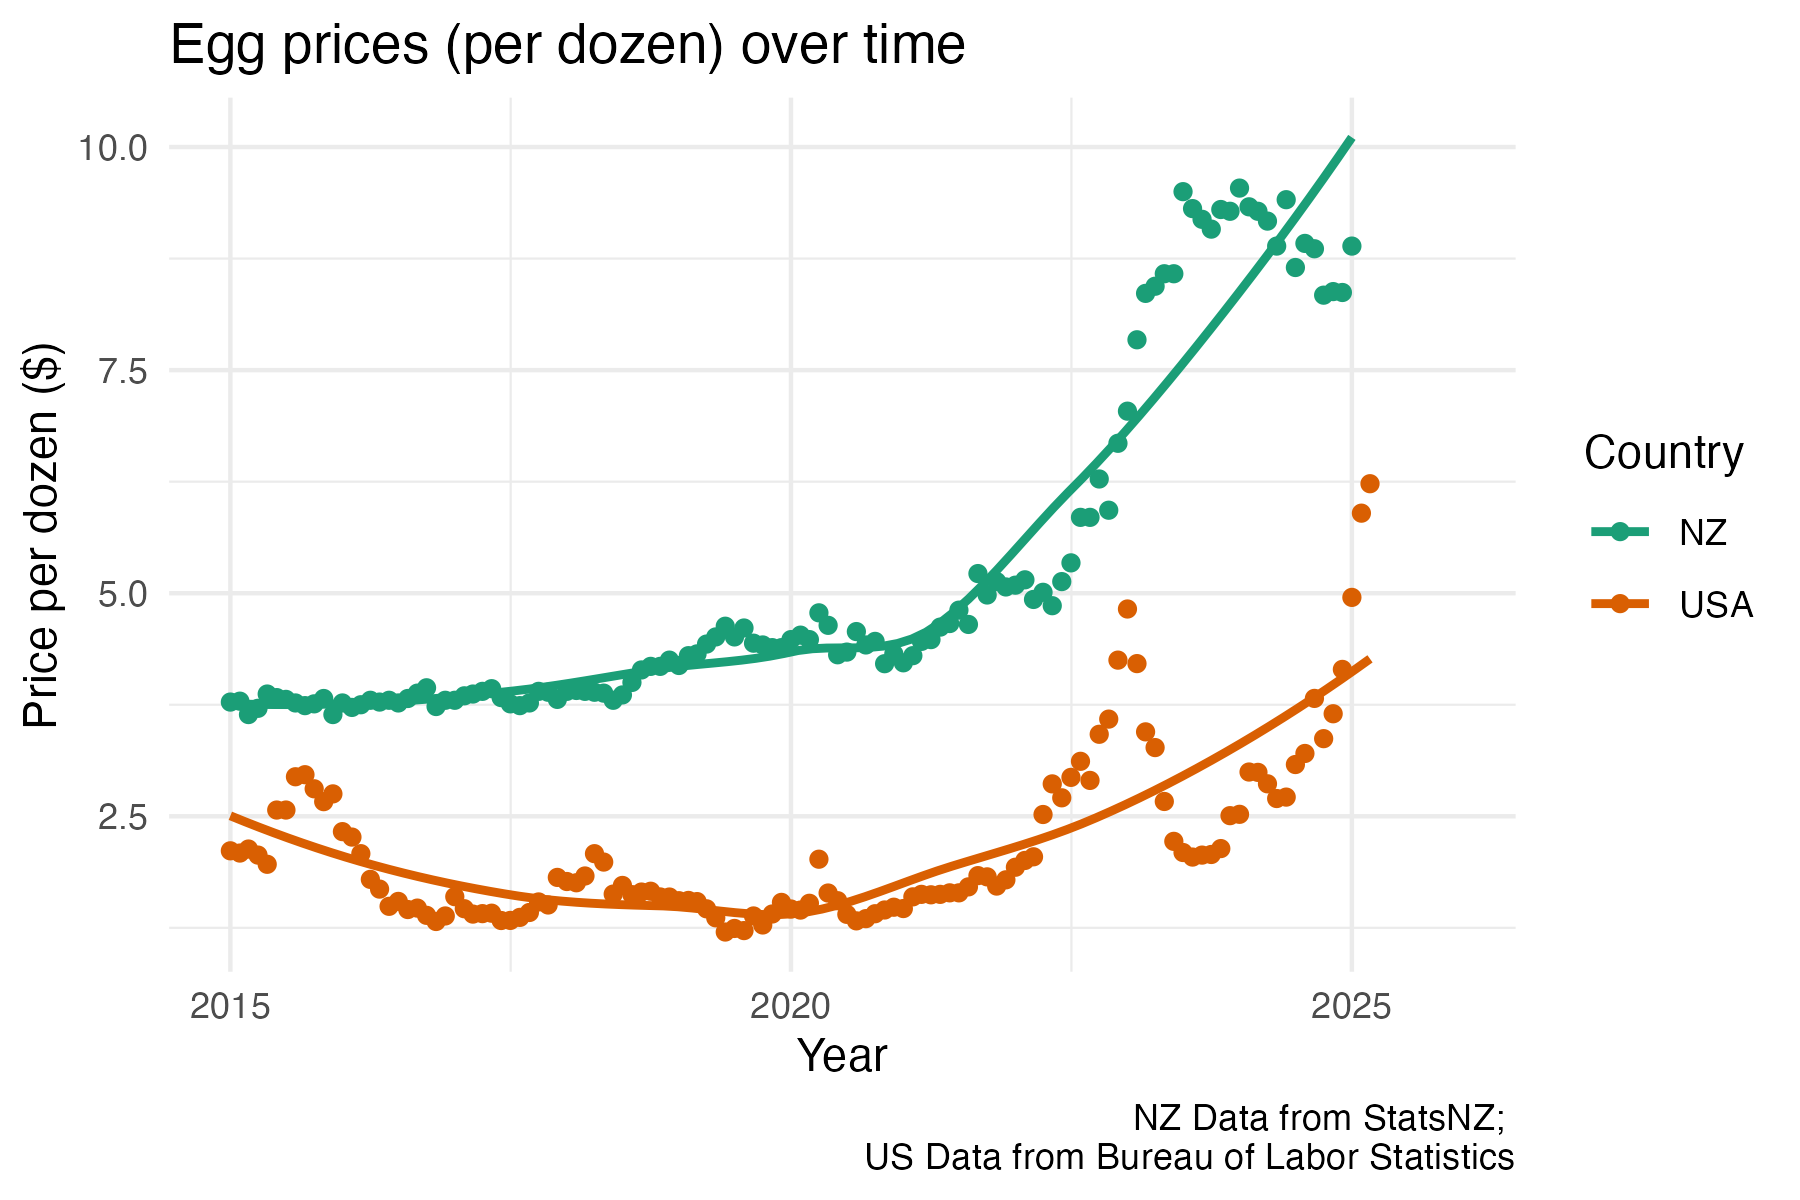
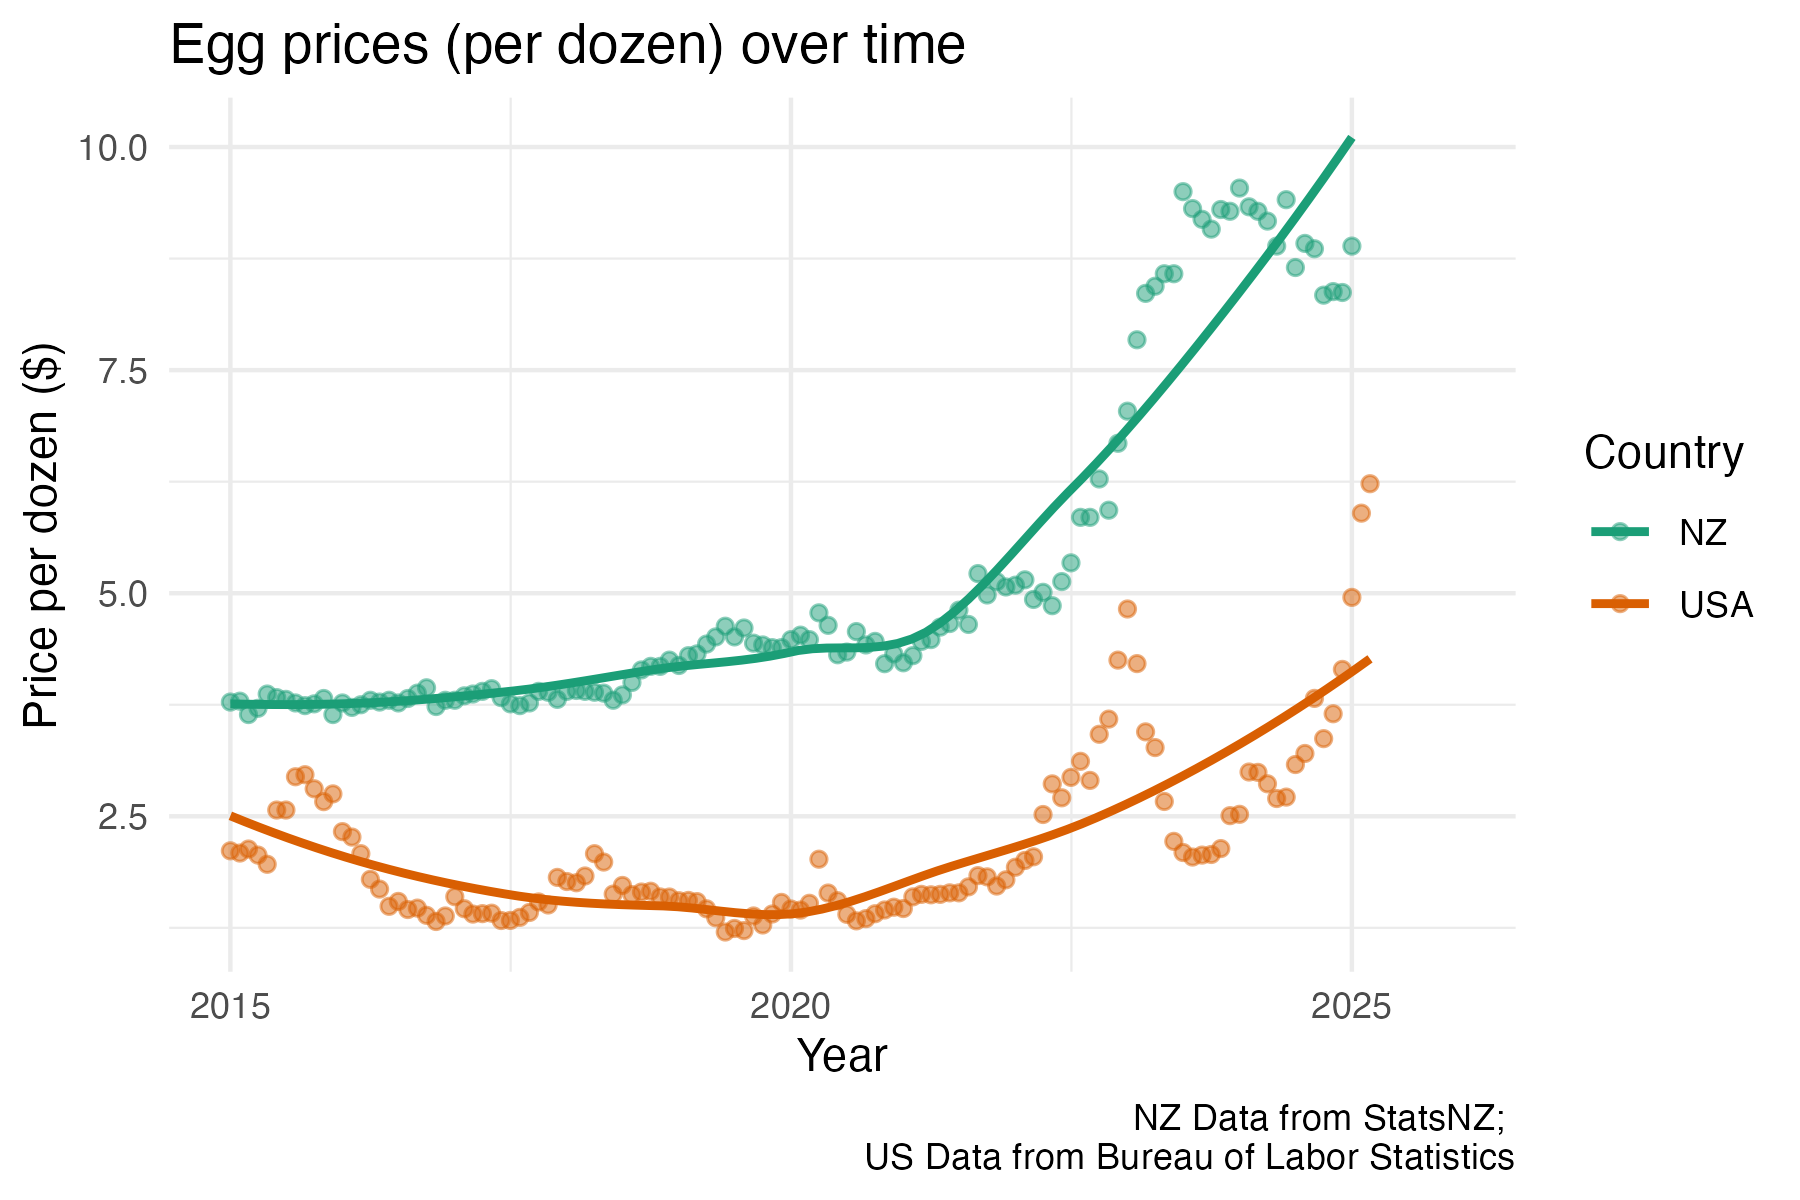
update egg plot

diff --git a/_site/charts/2025-03-31_challenge/index.html b/_site/charts/2025-03-31_challenge/index.html
@@ -658,7 +658,7 @@ gtag('config', 'G-Y7WV5KV7Z0', { 'anonymize_ip': true});
 <div class="cell">
 <div class="sourceCode cell-code" id="cb14"><pre class="sourceCode r code-with-copy"><code class="sourceCode r"><span id="cb14-1"><a href="#cb14-1" aria-hidden="true" tabindex="-1"></a>eggs <span class="sc">%&gt;%</span></span>
 <span id="cb14-2"><a href="#cb14-2" aria-hidden="true" tabindex="-1"></a>  <span class="fu">ggplot</span>(<span class="fu">aes</span>(<span class="at">x =</span> date, <span class="at">y =</span> price, <span class="at">colour =</span> currency)) <span class="sc">+</span></span>
-<span id="cb14-3"><a href="#cb14-3" aria-hidden="true" tabindex="-1"></a>  <span class="fu">geom_point</span>() <span class="sc">+</span></span>
+<span id="cb14-3"><a href="#cb14-3" aria-hidden="true" tabindex="-1"></a>  <span class="fu">geom_point</span>(<span class="at">alpha =</span> <span class="fl">0.5</span>) <span class="sc">+</span></span>
 <span id="cb14-4"><a href="#cb14-4" aria-hidden="true" tabindex="-1"></a>  <span class="fu">geom_smooth</span>(<span class="at">se =</span> <span class="cn">FALSE</span>, <span class="at">na.rm =</span> <span class="cn">TRUE</span>) <span class="sc">+</span></span>
 <span id="cb14-5"><a href="#cb14-5" aria-hidden="true" tabindex="-1"></a>  <span class="fu">scale_colour_brewer</span>(<span class="at">palette =</span> <span class="st">"Dark2"</span>, <span class="at">name =</span> <span class="st">"Country"</span>, <span class="at">labels =</span> <span class="fu">c</span>(<span class="st">"NZ"</span>, <span class="st">"USA"</span>)) <span class="sc">+</span></span>
 <span id="cb14-6"><a href="#cb14-6" aria-hidden="true" tabindex="-1"></a>  <span class="fu">theme_minimal</span>() <span class="sc">+</span></span>

diff --git a/_site/charts.html b/_site/charts.html
@@ -215,7 +215,7 @@ window.Quarto = {
 
 <div class="quarto-listing quarto-listing-container-grid" id="listing-listing">
 <div class="list grid quarto-listing-cols-3">
-<div class="g-col-1" data-index="0" data-listing-date-sort="1743332400000" data-listing-file-modified-sort="1745111662689" data-listing-date-modified-sort="NaN" data-listing-reading-time-sort="15" data-listing-word-count-sort="2965">
+<div class="g-col-1" data-index="0" data-listing-date-sort="1743332400000" data-listing-file-modified-sort="1745132905493" data-listing-date-modified-sort="NaN" data-listing-reading-time-sort="15" data-listing-word-count-sort="2967">
 <a href="./charts/2025-03-31_challenge/index.html" class="quarto-grid-link">
 <div class="quarto-grid-item card h-100 card-left">
 <p class="card-img-top">
